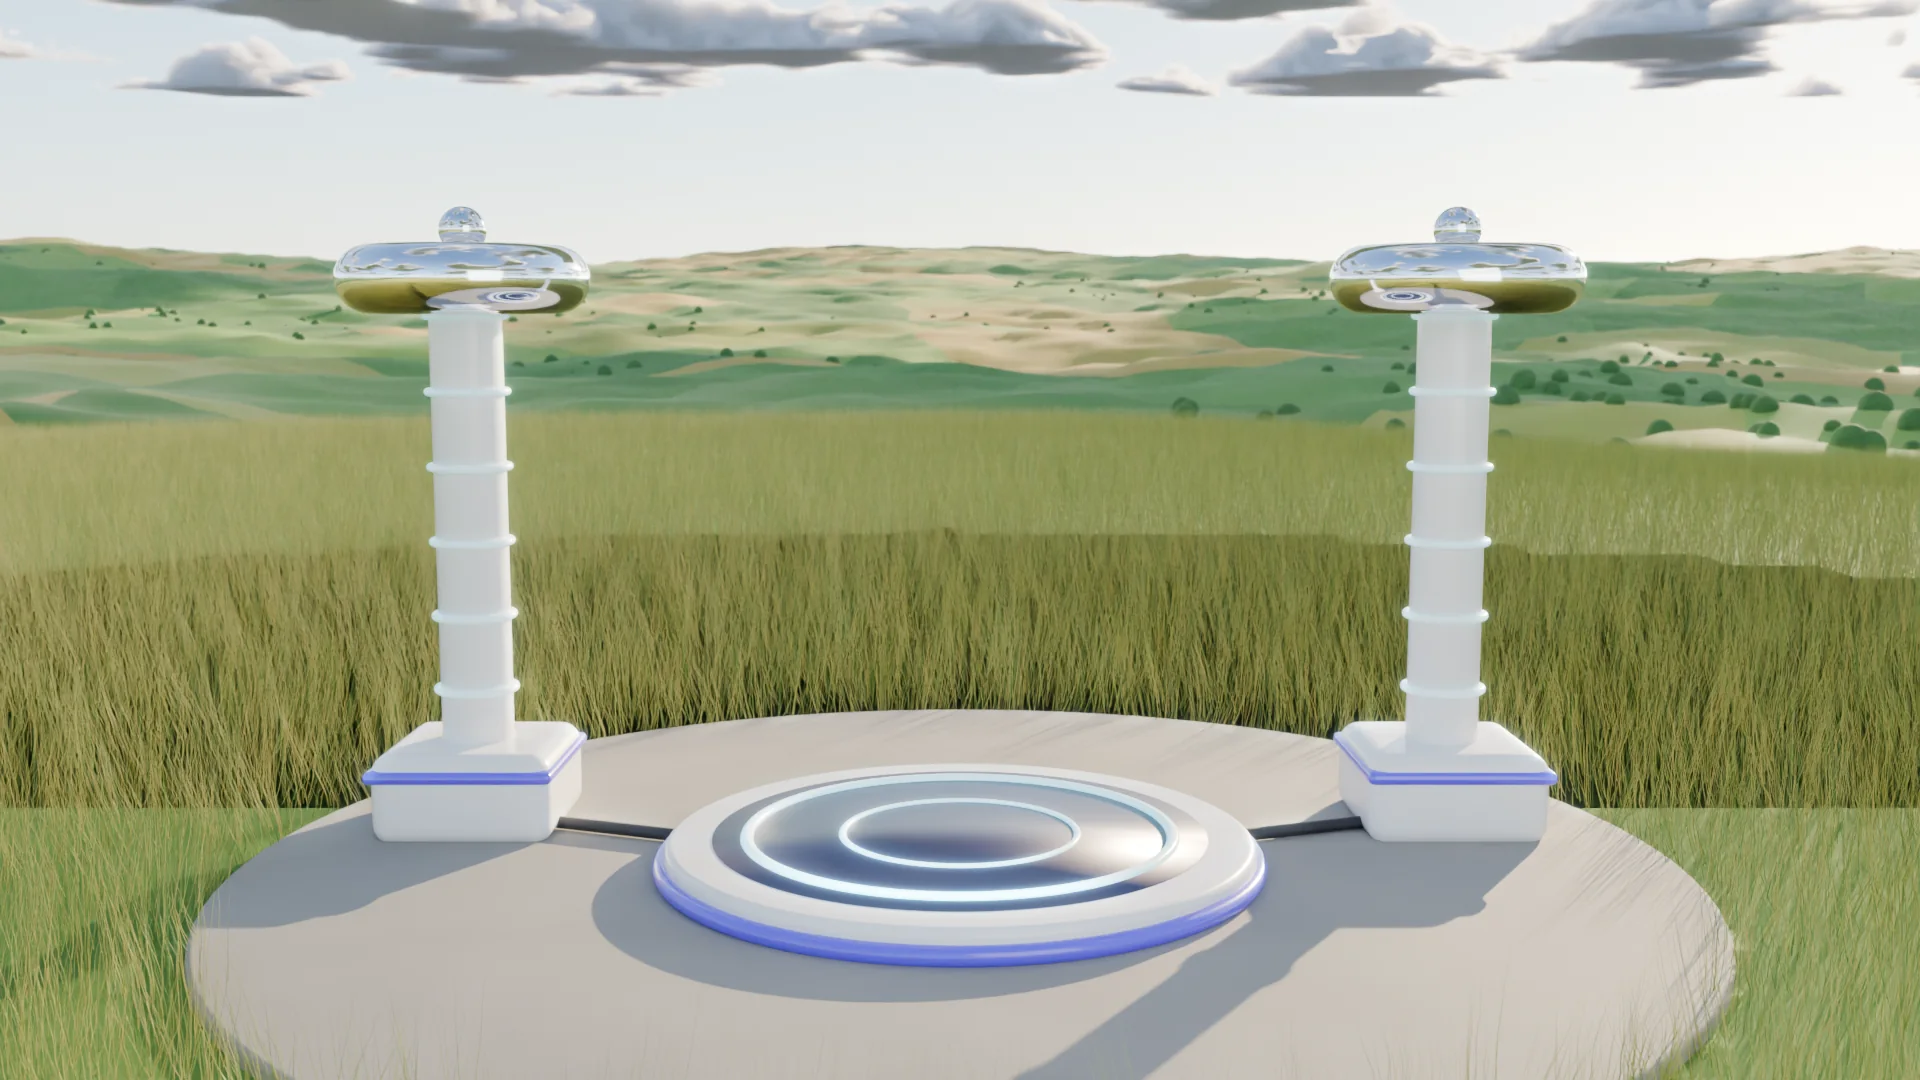
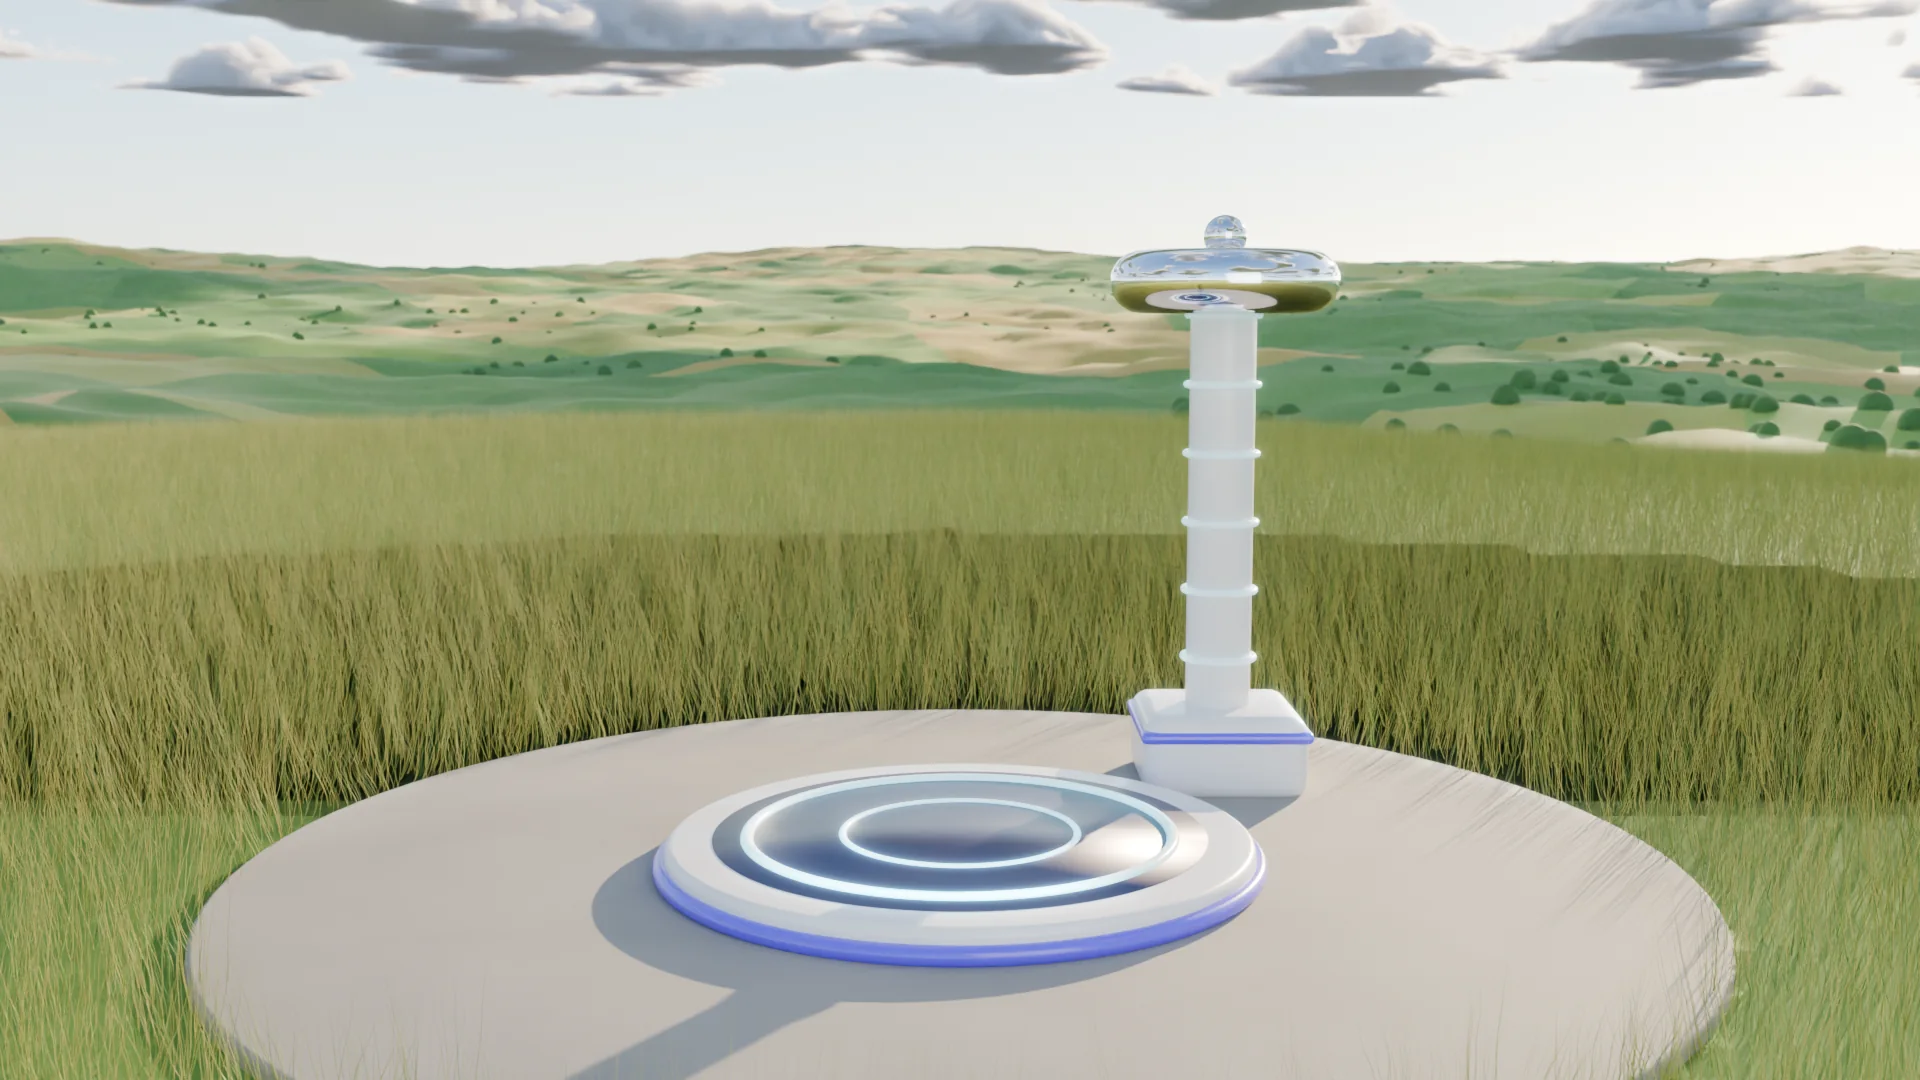
Charge: one charging pillar, close in so it shows on a phone
Tornike asked for a single pillar, and found the two coils missing on a phone (a phone's narrow crop of the set cut
them off). One pillar now stands behind the pad on the Brainer's right (PILLAR in charge.py and charge_assets.py),
in every phone crop from 360 to 430 px wide, held sideways and on desktop. The set, its preview and the website
card are rendered again; the arcs crawl round the pillar's top, then stream from it into the battery. Also: a
six-figure balance tightens the top bar on a phone (the .hud.long rule the other games have), found by the Multi
Charge session.

diff --git a/Game #4 - Charge/assets/scene.js b/Game #4 - Charge/assets/scene.js
@@ -1,4 +1,4 @@
 // Where the station and each Brainer still sit in the 1920 x 1080 renders (from Brainer 3D/blender/charge_assets.py).
 // The stills stand in for the live 3D Brainer (bot.js) only where WebGL is unavailable.
 // lqip: a 48 x 27 preview of the set (under 400 bytes), drawn while the full picture loads on a slow line.
[2 lines of base64/hex data omitted]

diff --git a/Website/assets/js/data.js b/Website/assets/js/data.js
@@ -149,8 +149,8 @@ window.BRAINER = {
       src: location.pathname.includes('/Website/') ? '../Game%20%234%20-%20Charge/index.html' : 'charge/index.html',
       tagline: 'Charge your Brainer to level it up and raise the multiplier. Overcharge its battery and it dozes off.',
       about: [
-        'A single-player instant game played in steps, in the style of Chicken Road. The Brainer starts every round at Level 1 on a charging pad between two coils, on a hilltop over the valley. Each charge either levels it up and raises the multiplier, or overcharges it.',
-        'Cash out after any charge to lock in the multiplier. The coils charge a battery that floats over the Brainer’s head: if a charge overloads, the battery overfills and pops, the Brainer gets dizzy and dozes off, and the bet is lost.',
+        'A single-player instant game played in steps, in the style of Chicken Road. The Brainer starts every round at Level 1 on a charging pad beside its charging pillar, on a hilltop over the valley. Each charge either levels it up and raises the multiplier, or overcharges it.',
+        'Cash out after any charge to lock in the multiplier. The pillar charges a battery that floats over the Brainer’s head: if a charge overloads, the battery overfills and pops, the Brainer gets dizzy and dozes off, and the bet is lost.',
         'Every safe charge changes the Brainer. Its eleven looks are spread over the charges a round can reach, from the baby to the master in graduation cap and cape on the last one, and each charge in between snaps on a random piece of gear: power bands, gloves, headphones, energy wings and more. The Brainer is live 3D and never stands still while it waits for the next charge.'
       ],
       how: [

diff --git a/Game #4 - Charge/game.js b/Game #4 - Charge/game.js
@@ -288,12 +288,15 @@ function strokeBolt(pts, col, w, a) {
   ctx.strokeStyle = `rgba(${col},${0.55 * a})`; ctx.lineWidth = w * 2; ctx.stroke();
   ctx.strokeStyle = `rgba(255,255,255,${0.9 * a})`; ctx.lineWidth = w * 0.8; ctx.stroke();
 }
-function makeArcs(phase) {   // wind: crawling on the coils' rings, then streaming into the battery; feed: a last bright burst into it
+function makeArcs(phase) {   // wind: crawling round the pillar's top, then streaming into the battery; feed: a last bright burst into it
   const T = SC.set.term.map(t => P(t[0], t[1])), out = [], bw = 40 * K;
-  for (let s = 0; s < 2; s++) {
-    const r = SC.set.toroid[s], ang = Math.random() * Math.PI * 2, e = P(r.cx + Math.cos(ang) * r.rx * 1.1, r.cy + Math.sin(ang) * r.ry * 1.4 + 6);
+  for (let k = 0; k < 2; k++) {   // two crawlers, on the one pillar (or one on each, where a set has two)
+    const s = k % T.length, r = SC.set.toroid[s], ang = Math.random() * Math.PI * 2, e = P(r.cx + Math.cos(ang) * r.rx * 1.1, r.cy + Math.sin(ang) * r.ry * 1.4 + 6);
     out.push({ pts: bolt(T[s], e, 0.5, 4), col: '140,235,255', w: 1.1 });
-    if (phase !== 'crawl') out.push({ pts: bolt(T[s], [view.bx + (s ? bw : -bw), view.by], 0.3, 6), col: '120,230,255', w: phase === 'feed' ? 2.2 : 1.4 });
+  }
+  if (phase !== 'crawl') {   // into the battery: its near end and its top from one pillar, or one end from each of two
+    const ends = T.length === 1 ? [[Math.sign(T[0][0] - view.bx) * bw, 0], [0, -12 * K]] : [[-bw, 0], [bw, 0]];
+    ends.forEach(([dx, dy], i) => out.push({ pts: bolt(T[i % T.length], [view.bx + dx, view.by + dy], 0.3, 6), col: '120,230,255', w: (phase === 'feed' ? 2.2 : 1.4) * (i ? 0.75 : 1) }));
   }
   return out;
 }

diff --git a/Game #4 - Charge/style.css b/Game #4 - Charge/style.css
@@ -182,6 +182,7 @@ button{cursor:pointer}
   .wallet{gap:4px;padding:4px 4px 4px 10px;font-size:14px} .wallet small{display:none} .wallet button{padding:4px 9px}
 }
 @media (max-width:374px){ .hud{justify-content:flex-end} .brand{display:none} }
+@media (max-width:480px){ .hud.long .hud-right{gap:4px} .hud.long .round{width:31px;height:31px} .hud.long .round svg{width:16px;height:16px} .hud.long .wallet{font-size:13px;padding:4px 4px 4px 8px} .hud.long .wallet button{padding:4px 7px} }   /* a six-figure balance (renderBalance() sets .long): the tighter top bar, as in Plane Crash and Fly High, so the wallet stays on the stage */
 @media (max-width:330px){ .hud-right{gap:4px} .round{width:31px;height:31px} .round svg{width:16px;height:16px} .wallet{font-size:13px;padding:4px 4px 4px 8px} .wallet button{padding:4px 7px} }
 @media (max-height:700px) and (min-width:761px){ .foot{display:none} :root{--stage-h:clamp(360px,calc(100dvh - 206px),640px)} }
 @media (prefers-reduced-motion:reduce){ .readout .mult.pop,.readout .mult.gold,.newlook{animation:none!important} .big,.toast,.cells-in{transition:none} }

diff --git a/Game #4 - Charge/index.html b/Game #4 - Charge/index.html
@@ -59,7 +59,7 @@
         <b id="tutTitle">How to play</b>
         <ol>
           <li><b>Pick a difficulty and your bet</b>, then press Play. Your Brainer starts on the charging pad at Level 1, 1.00×.</li>
-          <li><b>Press Charge.</b> The coils charge the battery over your Brainer's head. A safe charge levels it up and raises your multiplier, and your Brainer grows into a new look or snaps on new gear, up to the master with the graduation cap and cape on the last charge.</li>
+          <li><b>Press Charge.</b> The charging pillar charges the battery over your Brainer's head. A safe charge levels it up and raises your multiplier, and your Brainer grows into a new look or snaps on new gear, up to the master with the graduation cap and cape on the last charge.</li>
           <li><b>Cash out whenever you like</b> to take your win, up to $10,000 a round. If a charge overloads, the battery pops, your Brainer dozes off and the bet is lost.</li>
           <li><b>Harder difficulties hide more overloads</b> (1, 3, 5 or 10 in 25 charges), so each charge pays more.</li>
         </ol>

diff --git a/Brainer 3D/blender/charge.py b/Brainer 3D/blender/charge.py
@@ -162,9 +162,12 @@ cyl('PadTop', 1.3, 0.02, (0, 0, PAD - 0.005), (0, 0, 0), navy, None, verts=128)
 torus('PadRing', 1.12, 0.035, (0, 0, PAD), (0, 0, 0), ring_m, None)
 torus('PadRing2', 0.62, 0.02, (0, 0, PAD), (0, 0, 0), ring_m, None)
 torus('PadBand', 1.56, 0.05, (0, 0, 0.12), (0, 0, 0), violet, None)
+# the charging pillar (Tornike, 2026-10-27: a single pillar, visible on a phone too): behind the pad on the Brainer's right,
+# close in, so a phone's narrow crop of the set keeps all of it. TERM holds its terminal, keyed by side as when there were two.
+PILLAR = (1.6, 1.8)
 TERM = {}
-for sd in (-1, 1):
-    x, y = sd * 2.75, 0.85
+for sd in (1,):
+    x, y = PILLAR
     rbox(f'CoilBase{sd}', (0.5, 0.5, 0.26), (x, y, 0.3), 0.12, white, None)
     rbox(f'CoilBand{sd}', (0.52, 0.52, 0.04), (x, y, 0.44), 0.04, violet, None, segs=4, sub=1)
     cyl(f'CoilColumn{sd}', 0.2, 2.5, (x, y, 1.75), (0, 0, 0), white, None, bevel=0.02)
@@ -174,7 +177,7 @@ for sd in (-1, 1):
     TERM[sd] = Vector((x, y, 3.42))
     cu = bpy.data.curves.new(f'Cable{sd}', 'CURVE'); cu.dimensions = '3D'; cu.bevel_depth = 0.035; cu.bevel_resolution = 3
     sp = cu.splines.new('BEZIER'); sp.bezier_points.add(1)
-    for bp, co, hl in ((sp.bezier_points[0], (x - sd * 0.45, y - 0.2, 0.12), (x - sd * 1.0, y - 0.9, 0.1)), (sp.bezier_points[1], (sd * 1.5, 0.35, 0.12), (sd * 2.0, 1.1, 0.1))):
+    for bp, co, hl in ((sp.bezier_points[0], (x - 0.42, y - 0.35, 0.12), None), (sp.bezier_points[1], (1.0, 1.15, 0.12), None)):   # from its base to the pad's rim
         bp.co = co; bp.handle_left_type = bp.handle_right_type = 'AUTO'
     co = bpy.data.objects.new(f'Cable{sd}', cu); sc.collection.objects.link(co); cu.materials.append(rubber)
 
@@ -258,16 +261,17 @@ def smoke(loc, scale, seed):
 
 if FRAME == 'idle':   # level 1: the baby sits on the pad, ready; the station hums
     place(1, STAGES[0][2], 'happy')
-elif FRAME == 'charge':   # a charge lands: arcs from both coils into its hands and antenna, it jumps, grown a stage
+elif FRAME == 'charge':   # a charge lands: the pillar's arcs feed the battery over its head (never the Brainer), and it jumps
     place(5, STAGES[4][2], 'excited')
-    hl, hr, tip = wpos('HandL'), wpos('HandR'), wpos('AntennaTip1')
-    arc(TERM[-1], hl, 1); arc(TERM[1], hr, 2); arc(TERM[1], tip, 3, radius=0.012, branches=2)
-    for k, (a, b) in enumerate(((Vector((-1.0, -0.5, PAD)), wpos('BootL')), (Vector((1.05, -0.3, PAD)), wpos('BootR')))):
-        arc(a, b, 10 + k, radius=0.008, branches=1, watts=200)
-    point(wpos('Torso') + Vector((0, -0.9, 0.2)), '#7FE9FF', 120, 0.5)
+    top = wpos('HeadShell') + Vector((0, 0, 0.55)); bat = top + Vector((0, -0.2, 0.3))   # the game's battery, in 3D: a white shell, cyan cells, a nub
+    rbox('Battery', (0.4, 0.09, 0.18), tuple(bat), 0.06, white, None)
+    rbox('BatteryCells', (0.27, 0.1, 0.12), tuple(bat + Vector((-0.08, -0.004, 0))), 0.03, material('Cells', '#C9F9FF', emit='#55E6FF', strength=7), None)
+    rbox('BatteryNub', (0.04, 0.06, 0.07), tuple(bat + Vector((0.44, 0, 0))), 0.02, white, None)
+    arc(TERM[1], bat + Vector((0.44, 0, 0.02)), 2); arc(TERM[1], bat + Vector((0.1, 0, 0.18)), 3, radius=0.012, branches=2)
+    point(bat + Vector((0, -0.5, 0)), '#7FE9FF', 160, 0.4)
 elif FRAME == 'master':   # top X: the master floats over the pad in a graduation cap and a cape, the coils glow gold
     place(10, STAGES[9][2], 'wise'); cape()
-    for sd in (-1, 1):
+    for sd in TERM:
         for k in range(2): arc(TERM[sd], TERM[sd] + Vector((-sd * 0.5 + (k - 0.5) * 0.4, -0.3, -0.5 - 0.3 * k)), 30 + k + (sd > 0) * 5, radius=0.008, mat=arc_gold, branches=1, col='#FFD56B', watts=150)
     point(wpos('Torso') + Vector((0, -1.0, 0.5)), '#FFE2A0', 250, 0.6)
 elif FRAME == 'broken':   # overcharged: slumped and sooty, smoke from its head, sparks at the neck, a red error face
@@ -288,7 +292,7 @@ elif FRAME == 'broken':   # overcharged: slumped and sooty, smoke from its head,
         p = o0 + v * t * 1.6 + Vector((0, 0, -0.9 * t * t)); q = p + v * r.uniform(0.04, 0.12)
         capsule(f'Spark{k}', tuple(p), tuple(q), 0.006, spark, None)
     point(neck + Vector((0, -0.3, 0.1)), '#FFB547', 220, 0.2); point(wpos('HeadShell') + Vector((0, -1.0, 0)), '#FF2A40', 160, 0.4)
-    arc(TERM[-1], Vector((-2.2, -0.6, 0.1)), 50, radius=0.01, branches=2, watts=500)
+    arc(TERM[1], Vector((2.4, 0.6, 0.1)), 50, radius=0.01, branches=2, watts=500)
     dm = bpy.data.materials.new('Scorch'); dm.use_nodes = True; dn = dm.node_tree.nodes; db = dn['Principled BSDF']; db.inputs['Base Color'].default_value = (0.01, 0.01, 0.01, 1)
     gt = dn.new('ShaderNodeTexGradient'); gt.gradient_type = 'SPHERICAL'; tco = dn.new('ShaderNodeTexCoord'); dm.node_tree.links.new(tco.outputs['Object'], gt.inputs['Vector'])
     dm.node_tree.links.new(gt.outputs['Fac'], db.inputs['Alpha'])

diff --git a/Brainer 3D/blender/charge_assets.py b/Brainer 3D/blender/charge_assets.py
@@ -169,9 +169,12 @@ cyl('PadTop', 1.3, 0.02, (0, 0, PAD - 0.005), (0, 0, 0), navy, None, verts=128)
 torus('PadRing', 1.12, 0.035, (0, 0, PAD), (0, 0, 0), ring_m, None)
 torus('PadRing2', 0.62, 0.02, (0, 0, PAD), (0, 0, 0), ring_m, None)
 torus('PadBand', 1.56, 0.05, (0, 0, 0.12), (0, 0, 0), violet, None)
+# the charging pillar (Tornike, 2026-10-27: a single pillar, visible on a phone too): behind the pad on the Brainer's right,
+# close in, so a phone's narrow crop of the set keeps all of it. TERM holds its terminal, keyed by side as when there were two.
+PILLAR = (1.6, 1.8)
 TERM = {}
-for sd in (-1, 1):
-    x, y = sd * 2.75, 0.85
+for sd in (1,):
+    x, y = PILLAR
     rbox(f'CoilBase{sd}', (0.5, 0.5, 0.26), (x, y, 0.3), 0.12, white, None)
     rbox(f'CoilBand{sd}', (0.52, 0.52, 0.04), (x, y, 0.44), 0.04, violet, None, segs=4, sub=1)
     cyl(f'CoilColumn{sd}', 0.2, 2.5, (x, y, 1.75), (0, 0, 0), white, None, bevel=0.02)
@@ -181,7 +184,7 @@ for sd in (-1, 1):
     TERM[sd] = Vector((x, y, 3.42))
     cu = bpy.data.curves.new(f'Cable{sd}', 'CURVE'); cu.dimensions = '3D'; cu.bevel_depth = 0.035; cu.bevel_resolution = 3
     sp = cu.splines.new('BEZIER'); sp.bezier_points.add(1)
-    for bp, co, hl in ((sp.bezier_points[0], (x - sd * 0.45, y - 0.2, 0.12), (x - sd * 1.0, y - 0.9, 0.1)), (sp.bezier_points[1], (sd * 1.5, 0.35, 0.12), (sd * 2.0, 1.1, 0.1))):
+    for bp, co, hl in ((sp.bezier_points[0], (x - 0.42, y - 0.35, 0.12), None), (sp.bezier_points[1], (1.0, 1.15, 0.12), None)):   # from its base to the pad's rim
         bp.co = co; bp.handle_left_type = bp.handle_right_type = 'AUTO'
     co = bpy.data.objects.new(f'Cable{sd}', cu); sc.collection.objects.link(co); cu.materials.append(rubber)
 
@@ -266,11 +269,10 @@ def ring(c, r, cam):   # a horizontal ring as the ellipse it makes in the pictur
 if MODE == 'set':
     build_land(); cam = camera(); settings(SAMPLES)
     render(os.path.join(OUTDIR, 'set.png'))
-    info = {'w': RW, 'h': RH, 'term': [px(TERM[-1], cam), px(TERM[1], cam)],
+    info = {'w': RW, 'h': RH, 'term': [px(TERM[s], cam) for s in TERM],
             'pad': ring((0, 0, PAD), 1.12, cam), 'pad2': ring((0, 0, PAD), 0.62, cam), 'padTop': ring((0, 0, PAD), 1.3, cam),
-            'coils': [[ring((sd * 2.75, 0.85, 0.85 + k * 0.42), 0.215, cam) for k in range(6)] for sd in (-1, 1)],
-            'toroid': [ring((sd * 2.75, 0.85, 3.15), 0.69, cam) for sd in (-1, 1)],
-            'ground': [px((sd * 2.2, -0.9, 0.1), cam) for sd in (-1, 1)]}   # where a coil shorts out to the ground
+            'coils': [[ring((TERM[s].x, TERM[s].y, 0.85 + k * 0.42), 0.215, cam) for k in range(6)] for s in TERM],
+            'toroid': [ring((TERM[s].x, TERM[s].y, 3.15), 0.69, cam) for s in TERM]}
     json.dump(info, open(os.path.join(OUTDIR, 'set.json'), 'w'), indent=1); print('SET JSON')
 elif MODE == 'sprites':
     cam = camera(); settings(SAMPLES); sc.render.film_transparent = True

diff --git a/HANDOFF.md b/HANDOFF.md
@@ -41,7 +41,7 @@ Live site: https://brainer.games (Cloudflare zone brainer.games: apex A/AAAA to 
 
 ## Charge (2026-10-26, night)
 
-- **Charge** (working title, `Game #4 - Charge/`, published at `/charge/`, Game #3 on the site) is Tornike's idea: Chicken Road where each step is a CHARGE. The Brainer starts every round at Level 1 (1.00×) on a charging pad between two coils on a hilltop over the valley; a safe charge levels it up and raises the multiplier; cash out after any charge. The maths is Plane Crash's: 1, 3, 5 or 10 overloads in 25 charges, multiplier = 0.98 ÷ the chance of surviving, rounded down to the cent, the $10,000 max win (Hardcore stops at charge 14 at $0.10). Each charge rolls HMAC-SHA256(server seed, "client seed:nonce:charge"); the fairness sheet re-checks every roll against its safe chance.
+- **Charge** (working title, `Game #4 - Charge/`, published at `/charge/`, Game #3 on the site) is Tornike's idea: Chicken Road where each step is a CHARGE. The Brainer starts every round at Level 1 (1.00×) on a charging pad on a hilltop over the valley, with one charging pillar behind the pad on its right (Tornike, 2026-10-27: a single pillar, placed close in so a phone's narrow crop keeps it; `PILLAR` in charge.py and charge_assets.py, which used to build two coils); a safe charge levels it up and raises the multiplier; cash out after any charge. The maths is Plane Crash's: 1, 3, 5 or 10 overloads in 25 charges, multiplier = 0.98 ÷ the chance of surviving, rounded down to the cent, the $10,000 max win (Hardcore stops at charge 14 at $0.10). Each charge rolls HMAC-SHA256(server seed, "client seed:nonce:charge"); the fairness sheet re-checks every roll against its safe chance.
 - **His picks:** golden hour; the royal velvet cape with gold clasps on the top look. After the first version he asked for (2026-10-26, late):
   - **A polite bust, no lightning at the robot.** The coils charge a battery that floats over the Brainer's head; an overload overfills it (amber, then red, swelling, a "!"), it pops in a puff of steam and little stars, and the Brainer, shocked, then dizzy, sits down and dozes off ("Battery flat"). The next round wakes it.
   - **Always in motion.** The Brainer is the live 3D rig (`bot.js`, on `shared/brainer-model.js`), drawn through the set's own Blender camera so it stands exactly on the pad. Waiting, it breathes, looks round and picks a new act every few seconds (wave, glance at a coil, check the battery, dance, stretch, foot tap, point, shrug, spin, hops, hug, sit); a charge makes it brace and look up at the battery; a safe one sets off a random cheer (jump, spin, fist pump, flex, cheer, bounce).
